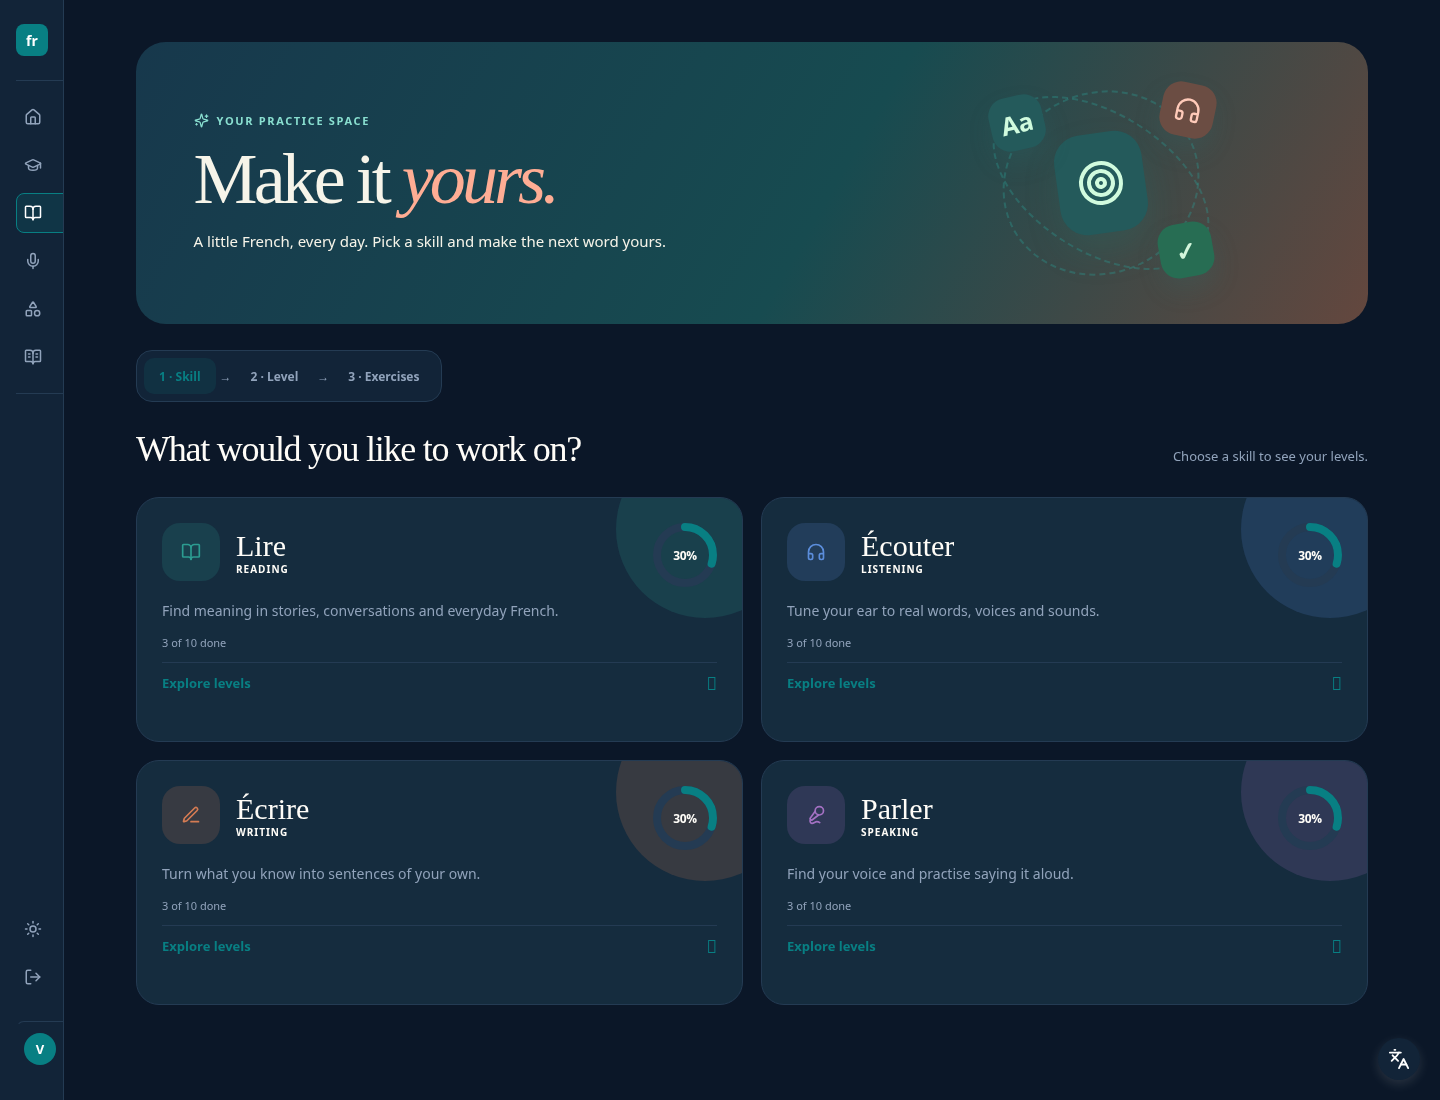
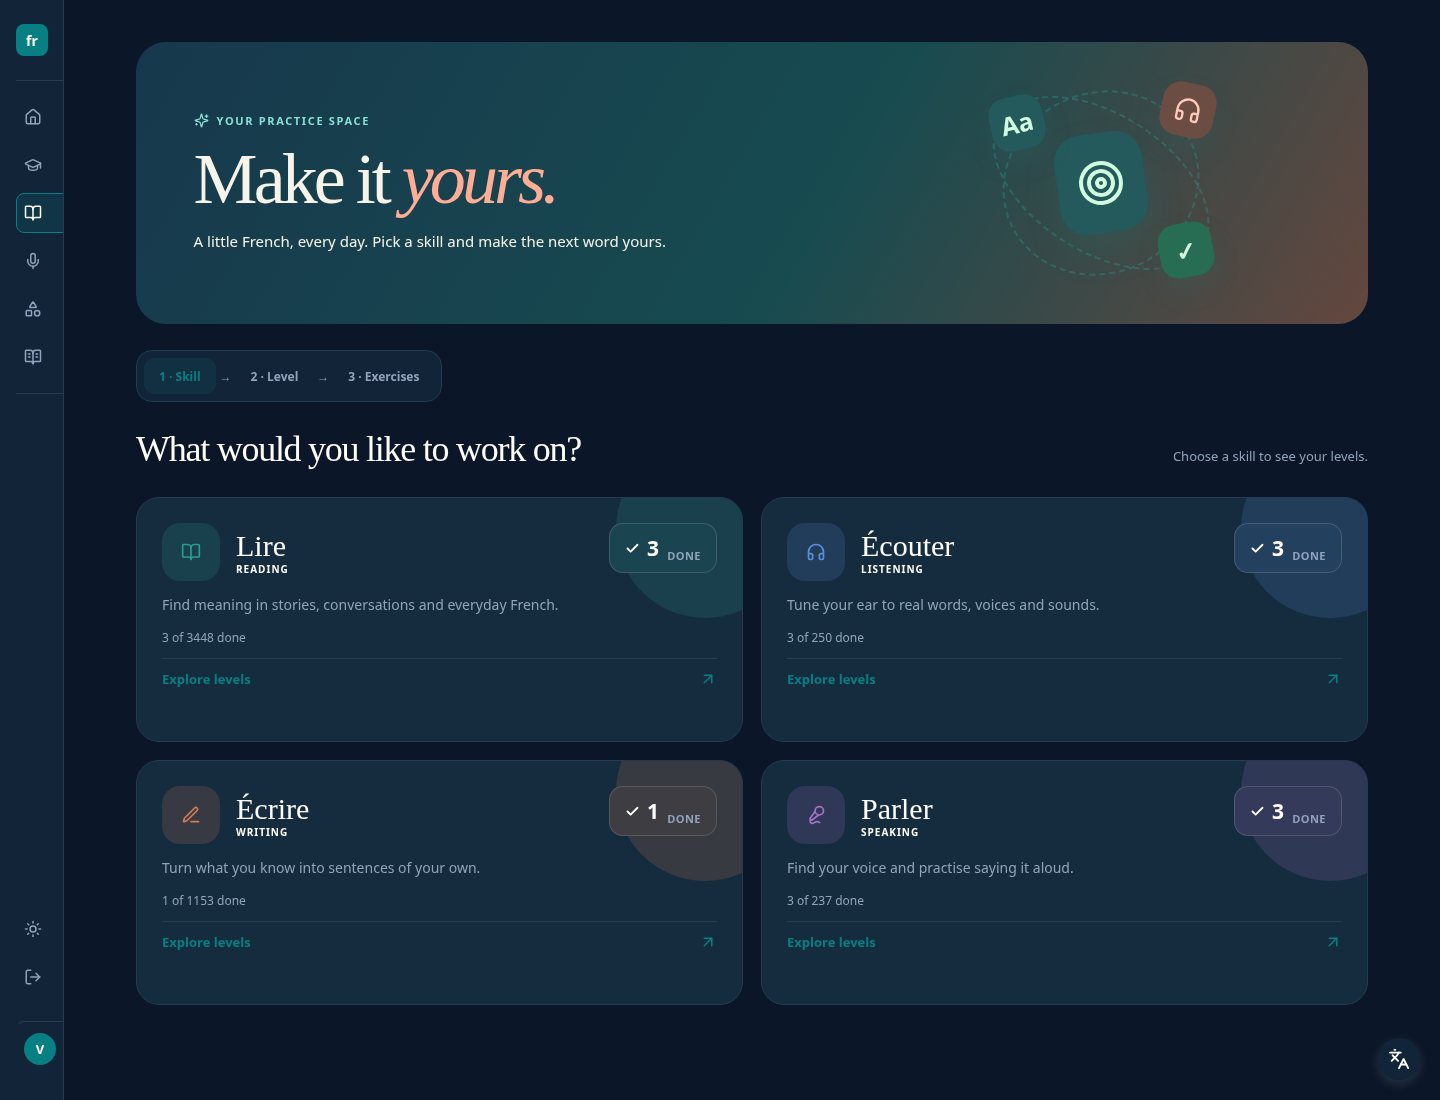
FRA-164: clarify practice progress and recording review

diff --git a/src/styles.css b/src/styles.css
@@ -3247,7 +3247,15 @@ html[data-theme] .practice-hero h1 { margin:0; color:var(--practice-hero-ink); f
 .practice-page .skill-card p { position:relative; margin:0; font-size:var(--text-14); }
 .practice-page .skill-card > small { margin-top:auto; }
 .practice-page .skill-card-invitation { position:relative; display:flex; align-items:center; justify-content:space-between; width:100%; padding-top:11px; border-top:1px solid var(--color-border); color:var(--color-accent); font-size:var(--text-13); font-weight:800; }
-.practice-page .skill-card-invitation span { font-size:var(--text-18); line-height:1; }
+.practice-page .skill-card-invitation svg { flex:none; }
+.practice-progress-count { display:flex; align-items:center; gap:7px; justify-content:center; min-width:108px; min-height:50px; padding:7px 11px; border:1px solid color-mix(in srgb,var(--color-text) 15%,transparent); border-radius:14px; background:color-mix(in srgb,var(--color-accent) 16%,var(--practice-card)); color:var(--color-text); font-variant-numeric:tabular-nums; }
+.practice-progress-count svg { flex:none; color:var(--color-text); stroke-width:3; }
+.practice-progress-count strong { color:var(--color-text); font-size:var(--text-21); line-height:1; }
+.practice-progress-count > span { align-self:end; margin-bottom:2px; color:var(--color-muted); font-size:var(--text-11); font-weight:750; text-transform:uppercase; letter-spacing:.04em; }
+.practice-page .skill-card .practice-progress-count { position:relative; z-index:0; background:color-mix(in srgb,var(--skill-tint) 21%,var(--practice-card)); }
+.practice-page .skill-card .practice-progress-count svg { color:var(--color-text); }
+.practice-page .skill-card > small { font-size:var(--text-12); }
+.practice-level-card .practice-progress-count { align-self:start; }
 .practice-page .skill-card-start { position:absolute; inset:0; z-index:1; width:100%; height:100%; padding:0; border:0; border-radius:inherit; background:transparent; cursor:pointer; }
 .practice-page .skill-card-start:focus-visible { outline:3px solid var(--color-accent); outline-offset:-4px; }
 .practice-page .skill-card .progress-ring { flex-basis:64px; }
@@ -3338,6 +3346,31 @@ html[data-theme] .practice-page .mcq-options button.incorrect { border-color:var
 .practice-page .read-aloud-exercise .practice-recording-stage { width:100%; }
 .practice-page .practice-recording-actions { display:flex; flex-wrap:wrap; gap:10px; }
 .practice-page .practice-recording-actions .primary-button,.practice-page .practice-recording-actions .text-button { width:auto; min-height:44px; margin:0; }
+.practice-page .freeform-exercise > h2 { max-width:1040px; font-size:clamp(21px,2.1vw,27px); line-height:1.38; }
+.practice-page .practice-task-note { display:grid; gap:5px; padding:15px 18px; border-left:3px solid var(--color-accent); border-radius:0 11px 11px 0; background:var(--practice-choice); }
+.practice-page .practice-task-note > strong { color:var(--color-accent); font-size:var(--text-11); letter-spacing:.1em; }
+.practice-page .practice-task-note p { margin:0; color:var(--color-text); font-size:var(--text-14); line-height:1.5; }
+.practice-page .practice-task-note .speaking-task-note { color:var(--color-muted); }
+.practice-page .freeform-exercise .practice-response-panel { gap:17px; padding:0; border:0; border-top:1px solid var(--color-border); border-radius:0; background:transparent; padding-top:22px; }
+.practice-page .practice-response-heading { justify-content:space-between; }
+.practice-page .practice-response-heading h3 { font-family:var(--font-body); font-size:var(--text-18); font-weight:800; }
+.practice-page .freeform-exercise .practice-recording-stage { min-height:0; padding:0; border:0; border-radius:0; background:transparent; }
+.practice-recording-review { display:grid; gap:16px; padding:18px 20px; border:1px solid var(--color-border); border-radius:15px; background:var(--practice-record); }
+.practice-recording-review-heading { display:flex; align-items:center; justify-content:space-between; flex-wrap:wrap; gap:12px; }
+.practice-recording-review-heading > div { display:grid; gap:2px; }
+.practice-recording-review-heading strong { color:var(--color-text); font-size:var(--text-15); }
+.practice-recording-review-heading p { margin:0; color:var(--color-muted); font-size:var(--text-13); }
+.practice-page .practice-recording-review-heading .text-button { width:auto; min-height:40px; margin:0; padding:8px 12px; border:1px solid var(--color-border); border-radius:9px; background:var(--practice-card); color:var(--color-text); }
+.practice-page .practice-recording-review-heading .text-button:hover { border-color:var(--color-accent); }
+.recording-playback { display:flex; align-items:center; gap:12px; min-height:68px; padding:10px 16px; border-radius:13px; background:var(--practice-card); color:var(--color-text); }
+.recording-playback-toggle { display:grid; place-items:center; flex:none; width:46px; height:46px; border:0; border-radius:50%; background:var(--palette-coral); color:var(--palette-white); cursor:pointer; }
+.recording-playback-toggle:hover { filter:brightness(.93); }
+.recording-playback-volume { flex:none; color:var(--color-accent); }
+.recording-playback input[type="range"] { flex:1; min-width:50px; accent-color:var(--color-accent); cursor:pointer; }
+.recording-playback time { min-width:82px; color:var(--color-muted); font-size:var(--text-13); font-variant-numeric:tabular-nums; text-align:right; }
+.recording-playback-error { color:var(--practice-bad); font-size:var(--text-12); }
+.practice-page .freeform-exercise .answer-submit { display:flex; justify-content:flex-end; }
+.practice-page .freeform-exercise .answer-submit .primary-button { width:min(100%,240px); min-height:48px; margin:0; }
 .practice-page .freeform-exercise .free-text-input,.practice-page textarea { border-radius:14px; background:var(--practice-choice); }
 .practice-page .practice-tray-label { margin-bottom:-10px; color:var(--color-text); font-size:var(--text-14); }
 .practice-page .word-order-answer { align-items:center; min-height:84px; padding:16px 18px; border:2px dashed color-mix(in srgb,var(--color-accent) 48%,var(--color-border)); border-radius:16px; background:var(--practice-choice); color:var(--color-muted); }
@@ -3388,4 +3421,9 @@ html:not([data-theme="light"]) .practice-hero-tile.tile-three { background:#276d
   .practice-page .answer-recording-row > .text-button { align-self:flex-start; }
   .practice-recording-live { align-items:stretch; flex-direction:column; }
   .practice-page .answer-comparison { grid-template-columns:1fr; }
+  .practice-page .practice-recording-review-heading { align-items:flex-start; }
+  .recording-playback { gap:8px; padding:8px; }
+  .recording-playback-volume { display:none; }
+  .recording-playback time { min-width:74px; font-size:var(--text-11); }
+  .practice-page .freeform-exercise .answer-submit .primary-button { width:100%; }
 }

diff --git a/src/components/exercises/FreeText.tsx b/src/components/exercises/FreeText.tsx
@@ -5,7 +5,7 @@ import type { SimulateSubmit } from './ExerciseCard';
 import { getErrorMessage } from '../../presenters/format.presenter.js';
 import { useAudioRecorder } from '../../hooks/useAudioRecorder';
 import { Mic, RotateCcw, Square } from 'lucide-react';
-import { AnswerModePicker, AudioPlayer, Box, Button, ErrorMessage, ExerciseEyebrow, ExerciseShell, Text, Textarea } from '../ui';
+import { AnswerModePicker, Box, Button, ErrorMessage, ExerciseEyebrow, ExerciseShell, RecordingPlayback, Text, Textarea } from '../ui';
 import type { AnswerMode } from '../ui';
 
 type Entry = { id: string; item_kind: AttemptItemKind; level?: string; prompt?: string; context?: string; instructions?: string; example?: string };
@@ -61,6 +61,7 @@ export function FreeText({ entry, token, onResult, simulateSubmit }: Props) {
   }
 
   function recordAgain() {
+    if (busy) return;
     recorder.cancelRecording(); setHeard(null); setError('');
     void recorder.startRecording();
   }
@@ -98,12 +99,15 @@ export function FreeText({ entry, token, onResult, simulateSubmit }: Props) {
     <Box className="freeform-exercise">
       <ExerciseEyebrow level={entry.level} kind="Free Text" />
       <Text as="h2">{entry.prompt}</Text>
-      {entry.context && <Text>{entry.context}</Text>}
-      {entry.instructions && <Text>{entry.instructions}</Text>}
-      <Text className="speaking-task-note">{GUIDANCE[entry.level || 'A1'] || GUIDANCE.A1}</Text>
+      <Box className="practice-task-note">
+        <Text as="strong">YOUR BRIEF</Text>
+        {entry.context && <Text>{entry.context}</Text>}
+        {entry.instructions && <Text>{entry.instructions}</Text>}
+        <Text className="speaking-task-note">{GUIDANCE[entry.level || 'A1'] || GUIDANCE.A1}</Text>
+      </Box>
       {entry.example && <Box as="details" className="speaking-followups"><Box as="summary">See an example</Box><Text>{entry.example}</Text></Box>}
       {!feedback && <Box className="practice-response-panel">
-        <Box className="practice-response-heading"><Text as="h3">Your response</Text><Text>Choose how you want to answer.</Text></Box>
+        <Box className="practice-response-heading"><Text as="h3">Your answer</Text><Text>Speak or type in French</Text></Box>
         <Box className="answer-mode-row">
           <AnswerModePicker value={mode} onChange={choose} disabled={busy || recorder.phase === 'requesting'} />
         </Box>
@@ -113,7 +117,10 @@ export function FreeText({ entry, token, onResult, simulateSubmit }: Props) {
             {recorder.phase === 'idle' && (available || simulateSubmit) && !heard && <Button variant="primary" icon={Mic} onClick={useSpokenInput}>{simulateSubmit ? 'Use sample recording' : 'Start recording'}</Button>}
             {recorder.phase === 'recording' && <Box className="practice-recording-live"><Text role="status">Recording <Text as="span">{recorder.elapsed}s / 60s</Text></Text><Button variant="primary" icon={Square} onClick={recorder.stopRecording}>Finish recording</Button></Box>}
             {recorder.phase === 'requesting' && <Text role="status">Requesting microphone…</Text>}
-            {recorder.phase === 'ready' && <Box className="answer-recording-row"><Box className="answer-recording"><Text as="strong">Listen to your recording</Text><AudioPlayer src={recorder.previewUrl} /></Box><Button variant="text" icon={RotateCcw} onClick={recordAgain}>Record again</Button></Box>}
+            {recorder.phase === 'ready' && <Box className="practice-recording-review">
+              <Box className="practice-recording-review-heading"><Box><Text as="strong">Your recording</Text><Text>Play it back before getting feedback.</Text></Box><Button variant="text" disabled={busy} icon={RotateCcw} onClick={recordAgain}>Record again</Button></Box>
+              <RecordingPlayback src={recorder.previewUrl} />
+            </Box>}
             {heard && !recorder.previewUrl && <Text className="speaking-task-note">Sample answer ready for feedback.</Text>}
           </Box>}
         {(mode === 'typed' ? Boolean(value.trim()) : Boolean(heard || recorder.blob)) && <Box className="answer-submit"><Button variant="primary" wide disabled={busy} onClick={submit}>{busy ? 'Getting feedback…' : 'Get feedback'}</Button></Box>}

diff --git a/src/components/ui/RecordingPlayback.tsx b/src/components/ui/RecordingPlayback.tsx
@@ -1,0 +1,41 @@
+import React from 'react';
+import { Pause, Play, Volume2 } from 'lucide-react';
+
+export type RecordingPlaybackProps = { src: string };
+
+function clock(seconds: number) {
+  const safe = Number.isFinite(seconds) ? Math.floor(seconds) : 0;
+  return `${Math.floor(safe / 60)}:${String(safe % 60).padStart(2, '0')}`;
+}
+
+export function RecordingPlayback({ src }: RecordingPlaybackProps) {
+  const audio = React.useRef<HTMLAudioElement>(null);
+  const [playing, setPlaying] = React.useState(false);
+  const [position, setPosition] = React.useState(0);
+  const [duration, setDuration] = React.useState(0);
+  const [error, setError] = React.useState(false);
+
+  async function toggle() {
+    if (!audio.current) return;
+    if (playing) { audio.current.pause(); return; }
+    try { await audio.current.play(); setError(false); }
+    catch { setPlaying(false); setError(true); }
+  }
+
+  return <div className="recording-playback">
+    <audio ref={audio} src={src} preload="metadata"
+      onLoadedMetadata={event => setDuration(event.currentTarget.duration)}
+      onDurationChange={event => setDuration(event.currentTarget.duration)}
+      onTimeUpdate={event => setPosition(event.currentTarget.currentTime)}
+      onPlay={() => setPlaying(true)} onPause={() => setPlaying(false)}
+      onEnded={() => { setPlaying(false); setPosition(0); }} onError={() => setError(true)} />
+    <button type="button" className="recording-playback-toggle" onClick={toggle} aria-label={playing ? 'Pause your recording' : 'Play your recording'}>
+      {playing ? <Pause size={20} fill="currentColor" aria-hidden="true" /> : <Play size={20} fill="currentColor" aria-hidden="true" />}
+    </button>
+    <Volume2 size={18} className="recording-playback-volume" aria-hidden="true" />
+    <input type="range" aria-label="Recording position" min="0" max={duration || 1} step="0.1" value={Math.min(position, duration || 1)}
+      disabled={!duration} onChange={event => { if (audio.current) audio.current.currentTime = Number(event.target.value); setPosition(Number(event.target.value)); }} />
+    <time>{clock(position)} / {clock(duration)}</time>
+    {error && <span role="alert" className="recording-playback-error">Playback unavailable</span>}
+  </div>;
+}

diff --git a/src/components/ui/SkillCard.tsx b/src/components/ui/SkillCard.tsx
@@ -1,6 +1,7 @@
 import React from 'react';
-import type { LucideIcon } from 'lucide-react';
+import { ArrowUpRight, type LucideIcon } from 'lucide-react';
 import { ProgressRing } from './ProgressRing';
+import { ProgressCount } from './ProgressCount';
 
 export type SkillCardProps = {
   title: string;
@@ -19,11 +20,11 @@ export function SkillCard({ title,gloss,description,done,total,percent,loading=f
   return (
     <section className={onStart ? 'skill-card skill-card-action' : 'skill-card'}>
       <div className="skill-card-heading"><div>{Icon && <span className="skill-card-icon"><Icon size={20} aria-hidden="true" /></span>}<h3>{title}</h3><span>{gloss}</span></div>
-        {!loading && <ProgressRing percent={percent} size={64} label={`${gloss}: ${done} of ${total} done`} />}
+        {!loading && (onStart ? <ProgressCount done={done} total={total} /> : <ProgressRing percent={percent} size={52} label={`${gloss}: ${done} of ${total} done`} />)}
       </div>
       <p>{description}</p>
       <small>{loading ? 'Progress loading…' : total ? `${done} of ${total} done` : 'No exercises yet'}</small>
-      {onStart && !loading && <span className="skill-card-invitation" aria-hidden="true">Explore levels <span>↗</span></span>}
+      {onStart && !loading && <span className="skill-card-invitation" aria-hidden="true">Explore levels <ArrowUpRight size={18} /></span>}
       {onStart && !loading && <button type="button" className="skill-card-start" onClick={onStart} aria-label={`Open ${gloss} practice`}><span className="visually-hidden">Open {gloss} practice</span></button>}
     </section>
   );

diff --git a/src/components/ui/PracticeLevelCard.tsx b/src/components/ui/PracticeLevelCard.tsx
@@ -1,15 +1,15 @@
 import React from 'react';
-import { ProgressRing } from './ProgressRing';
+import { ProgressCount } from './ProgressCount';
 
 type PracticeLevelCardProps = {key?:React.Key;level:string;clb:string;description:string;done:number;total:number;percent:number;selected:boolean;yourLevel:boolean;onStart:()=>void};
-export function PracticeLevelCard({level,clb,description,done,total,percent,selected,yourLevel,onStart}:PracticeLevelCardProps) {
+export function PracticeLevelCard({level,clb,description,done,total,selected,yourLevel,onStart}:PracticeLevelCardProps) {
   return <section className={`practice-level-card${selected ? ' selected' : ''}`}>
     <button type="button" className="practice-level-action" disabled={!total} onClick={onStart} aria-label={`Start ${level} exercises`}>
       {yourLevel && <span className="practice-your-level">Your level</span>}
       <span className="practice-level-heading"><strong>{level}</strong><small>CLB {clb}</small></span>
-      <ProgressRing size={64} percent={percent} label={`${level}: ${done} of ${total} done`}/>
+      <ProgressCount done={done} total={total}/>
       <span className="practice-level-description">{description}</span>
-      <small>{total ? `${done} of ${total} done` : 'No exercises yet'}</small>
+      <small>{total ? `${total} exercises` : 'No exercises yet'}</small>
       <span className="practice-level-start">{total ? 'Start →' : 'No exercises yet'}</span>
     </button>
   </section>;

diff --git a/src/components/ui/index.ts b/src/components/ui/index.ts
@@ -34,6 +34,10 @@ export { ProgressBar, SkeletonBar } from './ProgressBar';
 export type { ProgressBarProps, SkeletonBarProps } from './ProgressBar';
 export { ProgressRing } from './ProgressRing';
 export type { ProgressRingProps } from './ProgressRing';
+export { ProgressCount } from './ProgressCount';
+export type { ProgressCountProps } from './ProgressCount';
+export { RecordingPlayback } from './RecordingPlayback';
+export type { RecordingPlaybackProps } from './RecordingPlayback';
 export { EmptyState } from './EmptyState';
 export type { EmptyStateProps } from './EmptyState';
 export { Modal } from './Modal';

diff --git a/src/components/ui/ProgressCount.tsx b/src/components/ui/ProgressCount.tsx
@@ -1,0 +1,13 @@
+import React from 'react';
+import { Check } from 'lucide-react';
+
+export type ProgressCountProps = { done: number; total: number };
+
+// A completed count stays meaningful when a large catalog rounds progress to 0%.
+export function ProgressCount({ done, total }: ProgressCountProps) {
+  return <span className="practice-progress-count" aria-label={`${done} of ${total} exercises complete`}>
+    <Check size={15} aria-hidden="true" />
+    <strong>{done.toLocaleString()}</strong>
+    <span>done</span>
+  </span>;
+}
